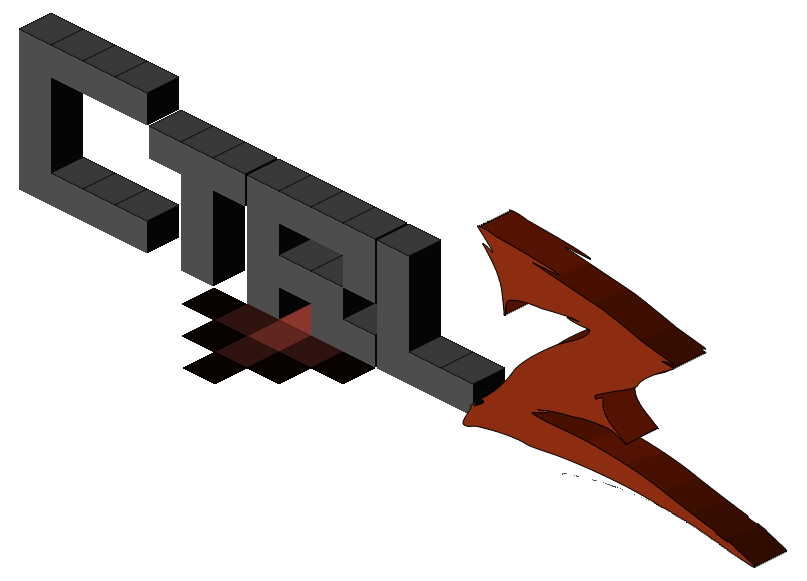
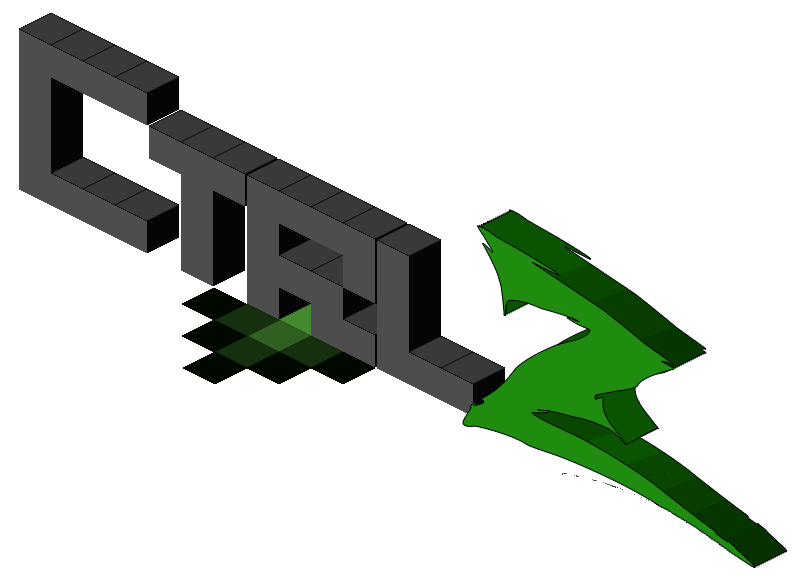
start menu

Changed region(s): [[0.5576, 0.3408, 0.9913, 0.9914], [0.2478, 0.5267, 0.4337, 0.6506]]

diff --git a/client/menus/StartMainMenu.cpp b/client/menus/StartMainMenu.cpp
@@ -12,7 +12,7 @@
 StartMainMenu::StartMainMenu(RogueZombieGame* rogueZombieGame, StateGameStart* state)
     : StateMenu(rogueZombieGame), state(state)
 {
-    unsigned int fSize = 28;
+    unsigned int fSize = 32;
 
     centroid = new bit::Container(0, 0, 800, 600, bit::Element::AnchorType::Center);
     centroid->scaleStyle = ScaleStyle::None;
@@ -23,7 +23,7 @@ StartMainMenu::StartMainMenu(RogueZombieGame* rogueZombieGame, StateGameStart* s
 
     // Title
     titlePicture = new bit::Picture(0, 0, 0, 0, bit::Element::AnchorType::Center);
-    titlePicture->opacity = 0;
+    //titlePicture->opacity = 0;
     titlePicture->setTexture(titleTexture);
     titlePicture->setColor(sf::Color::White);
     titlePicture->scaleStyle = ScaleStyle::None;
@@ -42,10 +42,18 @@ StartMainMenu::StartMainMenu(RogueZombieGame* rogueZombieGame, StateGameStart* s
             return false;
         }
     );
-    configureLabel(singleplayerLabel, "NEW GAME");
-    singleplayerLabel->normalColor = rzRed;
+    configureLabel(singleplayerLabel, "New Game");
+    singleplayerLabel->normalColor = rzGreen;
     singleplayerLabel->scaleStyle = ScaleStyle::None;
     singleplayerLabel->setSfFontSize(fSize);
+    singleplayerLabel->makeHoverable(rogueZombieGame->inputManager,
+        [] (bit::Hoverable* h, bit::Element* e) {
+            e->queueEffect(new bit::MoveEffect(100, -6, 0));
+        },
+        [] (bit::Hoverable* h, bit::Element* e) {
+            e->queueEffect(new bit::MoveEffect(100, 6, 0));
+        }
+    );
     centroid->addChild(singleplayerLabel);
 
     // Multiplayer
@@ -61,22 +69,38 @@ StartMainMenu::StartMainMenu(RogueZombieGame* rogueZombieGame, StateGameStart* s
             return false;
         }
     );
-    configureLabel(multiplayerLabel, "JOIN GAME");
-    multiplayerLabel->normalColor = rzRed;
+    configureLabel(multiplayerLabel, "Join Game");
+    multiplayerLabel->normalColor = rzGreen;
     multiplayerLabel->scaleStyle = ScaleStyle::None;
     multiplayerLabel->setSfFontSize(fSize);
+    multiplayerLabel->makeHoverable(rogueZombieGame->inputManager,
+        [] (bit::Hoverable* h, bit::Element* e) {
+            e->queueEffect(new bit::MoveEffect(100, -6, 0));
+        },
+        [] (bit::Hoverable* h, bit::Element* e) {
+            e->queueEffect(new bit::MoveEffect(100, 6, 0));
+        }
+    );
     centroid->addChild(multiplayerLabel);
 
     // Options
-    settingsLabel = new bit::Label(0, -600, 0, 0, bit::Element::AnchorType::TopRight, std::bind(&StartMainMenu::onActivate_Settings, this, std::placeholders::_1, std::placeholders::_2, std::placeholders::_3));
-    configureLabel(settingsLabel, "CONFIG");
-    settingsLabel->normalColor = rzRed;
+    settingsLabel = new bit::Label(0, -600, 0, 0, bit::Element::AnchorType::BottomLeft, std::bind(&StartMainMenu::onActivate_Settings, this, std::placeholders::_1, std::placeholders::_2, std::placeholders::_3));
+    configureLabel(settingsLabel, "Configure");
+    settingsLabel->normalColor = rzGreen;
     settingsLabel->scaleStyle = ScaleStyle::None;
     settingsLabel->setSfFontSize(fSize);
+    settingsLabel->makeHoverable(rogueZombieGame->inputManager,
+        [] (bit::Hoverable* h, bit::Element* e) {
+            e->queueEffect(new bit::MoveEffect(100, 6, 0));
+        },
+        [] (bit::Hoverable* h, bit::Element* e) {
+            e->queueEffect(new bit::MoveEffect(100, -6, 0));
+        }
+    );
     centroid->addChild(settingsLabel);
 
     // Exit
-    exitLabel = new bit::Label(0, -600, 0, 0, bit::Element::AnchorType::TopRight,
+    exitLabel = new bit::Label(0, -600, 0, 0, bit::Element::AnchorType::BottomLeft,
         [rogueZombieGame, state] (Element* element, sf::RenderWindow* window, sf::Time* gameTime) -> bool
         {
             if(element->opacity == 1 && rogueZombieGame->inputManager->isButtonReleased(sf::Mouse::Left))
@@ -88,10 +112,18 @@ StartMainMenu::StartMainMenu(RogueZombieGame* rogueZombieGame, StateGameStart* s
             return false;
         }
     );
-    configureLabel(exitLabel, "EXIT");
-    exitLabel->normalColor = rzRed;
+    configureLabel(exitLabel, "Exit");
+    exitLabel->normalColor = rzGreen;
     exitLabel->scaleStyle = ScaleStyle::None;
     exitLabel->setSfFontSize(fSize);
+    exitLabel->makeHoverable(rogueZombieGame->inputManager,
+        [] (bit::Hoverable* h, bit::Element* e) {
+            e->queueEffect(new bit::MoveEffect(100, 6, 0));
+        },
+        [] (bit::Hoverable* h, bit::Element* e) {
+            e->queueEffect(new bit::MoveEffect(100, -6, 0));
+        }
+    );
     centroid->addChild(exitLabel);
 }
 
@@ -101,7 +133,7 @@ void StartMainMenu::load()
     int titleFadeTime = 500;
     int titleMoveDelay = 500;
     int titleMoveTime = 1000;
-    titlePicture->queueEffect(new bit::Effect(titleFadeDelay))->queueEffect(new bit::FadeEffect(titleFadeTime, 1));
+    //titlePicture->queueEffect(new bit::Effect(titleFadeDelay))->queueEffect(new bit::FadeEffect(titleFadeTime, 1));
     //titlePicture->queueEffect(new bit::Effect(titleMoveDelay))->queueEffect(new bit::MoveEffect(titleMoveTime, bit::Easing::Type::InOutQuint, 0, -240));
 
     showMainMenu(2000);
@@ -109,11 +141,14 @@ void StartMainMenu::load()
 
 void StartMainMenu::showMainMenu(int additionalDelay)
 {
+    int fx = -510;
+    int fy = 40;
+    int yy = 10;
     int delay = 0 + additionalDelay;
-    inflowLabel(singleplayerLabel, 0, 0, delay + 1100, -80, 60);
-    inflowLabel(multiplayerLabel, 0, 0,  delay + 1000, -80,120);
-    inflowLabel(settingsLabel, 0, 0,  delay + 900, -80, 180);
-    inflowLabel(exitLabel, 0, 0,  delay + 800, -80, 240);
+    inflowLabel(singleplayerLabel, 500, yy, delay + 800, fx, 0);
+    inflowLabel(multiplayerLabel, 500, yy + fy,  delay + 700, fx, 0);
+    inflowLabel(settingsLabel, -500, -yy - fy,  delay + 600, -fx, 0);
+    inflowLabel(exitLabel, -500, -yy,  delay + 500, -fx, 0);
 }
 
 void StartMainMenu::hideMainMenu(int additionalDelay)

diff --git a/client/menus/StateMenu.cpp b/client/menus/StateMenu.cpp
@@ -16,13 +16,14 @@ StateMenu::StateMenu(RogueZombieGame* rogueZombieGame)
     // Colors
     rzRed = RZConfig::fontRed;
     rzGreen = RZConfig::fontGreen;
+    rzGray = RZConfig::fontGray;
 
     // Assets
     std::string titleImagePath(resourcePath() + "ctrlziso.png");
     titleTexture.loadFromFile(titleImagePath);
     titleTexture.setSmooth(true);
 
-    std::string fontPath(resourcePath() + "Audimat.ttf");
+    std::string fontPath(resourcePath() + "Homespun.ttf");
     menuFont.loadFromFile(fontPath);
     menuFontSize = 48;
 
@@ -68,12 +69,12 @@ void StateMenu::configureLabel(bit::Label* label, std::string text)
     label->setSfFontSize(menuFontSize);
     label->setSfFontString(text);
     label->normalColor = rzGreen;
-    label->focusedColor = sf::Color::White;
+    label->focusedColor = rzGray;
     label->paddingTop = 0;
-    label->paddingLeft = 5;
+    label->paddingLeft = 15;
     label->paddingRight = 5;
     label->paddingBottom = 25;
-    label->opacity = 0;
+    label->opacity = 1;
 }
 
 void StateMenu::inflowLabel(bit::Element* element, float startingX, float startingY, float delay, float endX, float endY)
@@ -81,10 +82,12 @@ void StateMenu::inflowLabel(bit::Element* element, float startingX, float starti
     element->relativePosition.x = startingX;
     element->relativePosition.y = startingY;
     element->opacity = 0;
-    element->queueEffect(new bit::MoveEffect(delay, endX, endY))->queueEffect(new bit::FadeEffect(500, 1));
+    element->queueEffect(new bit::FadeEffect(delay, 0, bit::Easing::Type::Linear, [endX, endY] (bit::Element* el, bit::Effect* ef) {
+        el->immediateEffect(new bit::FadeEffect(350, 1))->immediateEffect(new bit::MoveEffect(1000, bit::Easing::Type::OutElastic, endX, endY));
+    }));
 }
 
 void StateMenu::outflowLabel(bit::Element* element, float delay, float endX, float endY)
 {
-    element->queueEffect(new bit::Effect(delay))->queueEffect(new bit::FadeEffect(500, 0));
+    element->queueEffect(new bit::Effect(delay))->queueEffect(new bit::FadeEffect(350, 0));
 }

diff --git a/client/RZConfig.cpp b/client/RZConfig.cpp
@@ -39,6 +39,7 @@ sf::Color RZConfig::tileTargetInRangeRadius(255, 255, 0);
 
 sf::Color RZConfig::fontGreen(0, 255, 0);
 sf::Color RZConfig::fontRed(140, 44, 16);
+sf::Color RZConfig::fontGray(77, 77, 77);
 
 float RZConfig::getDrawDepthForGameplay(float yPosition)
 {

diff --git a/client/menus/StateMenu.hpp b/client/menus/StateMenu.hpp
@@ -18,6 +18,7 @@ public:
     RogueZombieGame* rogueZombieGame;
     sf::Color rzRed;
     sf::Color rzGreen;
+    sf::Color rzGray;
     sf::Font menuFont;
     int menuFontSize;
     sf::Texture titleTexture;

diff --git a/client/RZConfig.hpp b/client/RZConfig.hpp
@@ -29,6 +29,7 @@ public:
 
     static sf::Color fontGreen;
     static sf::Color fontRed;
+    static sf::Color fontGray;
 
     static float getDrawDepthForGameplay(float yPosition);
 
